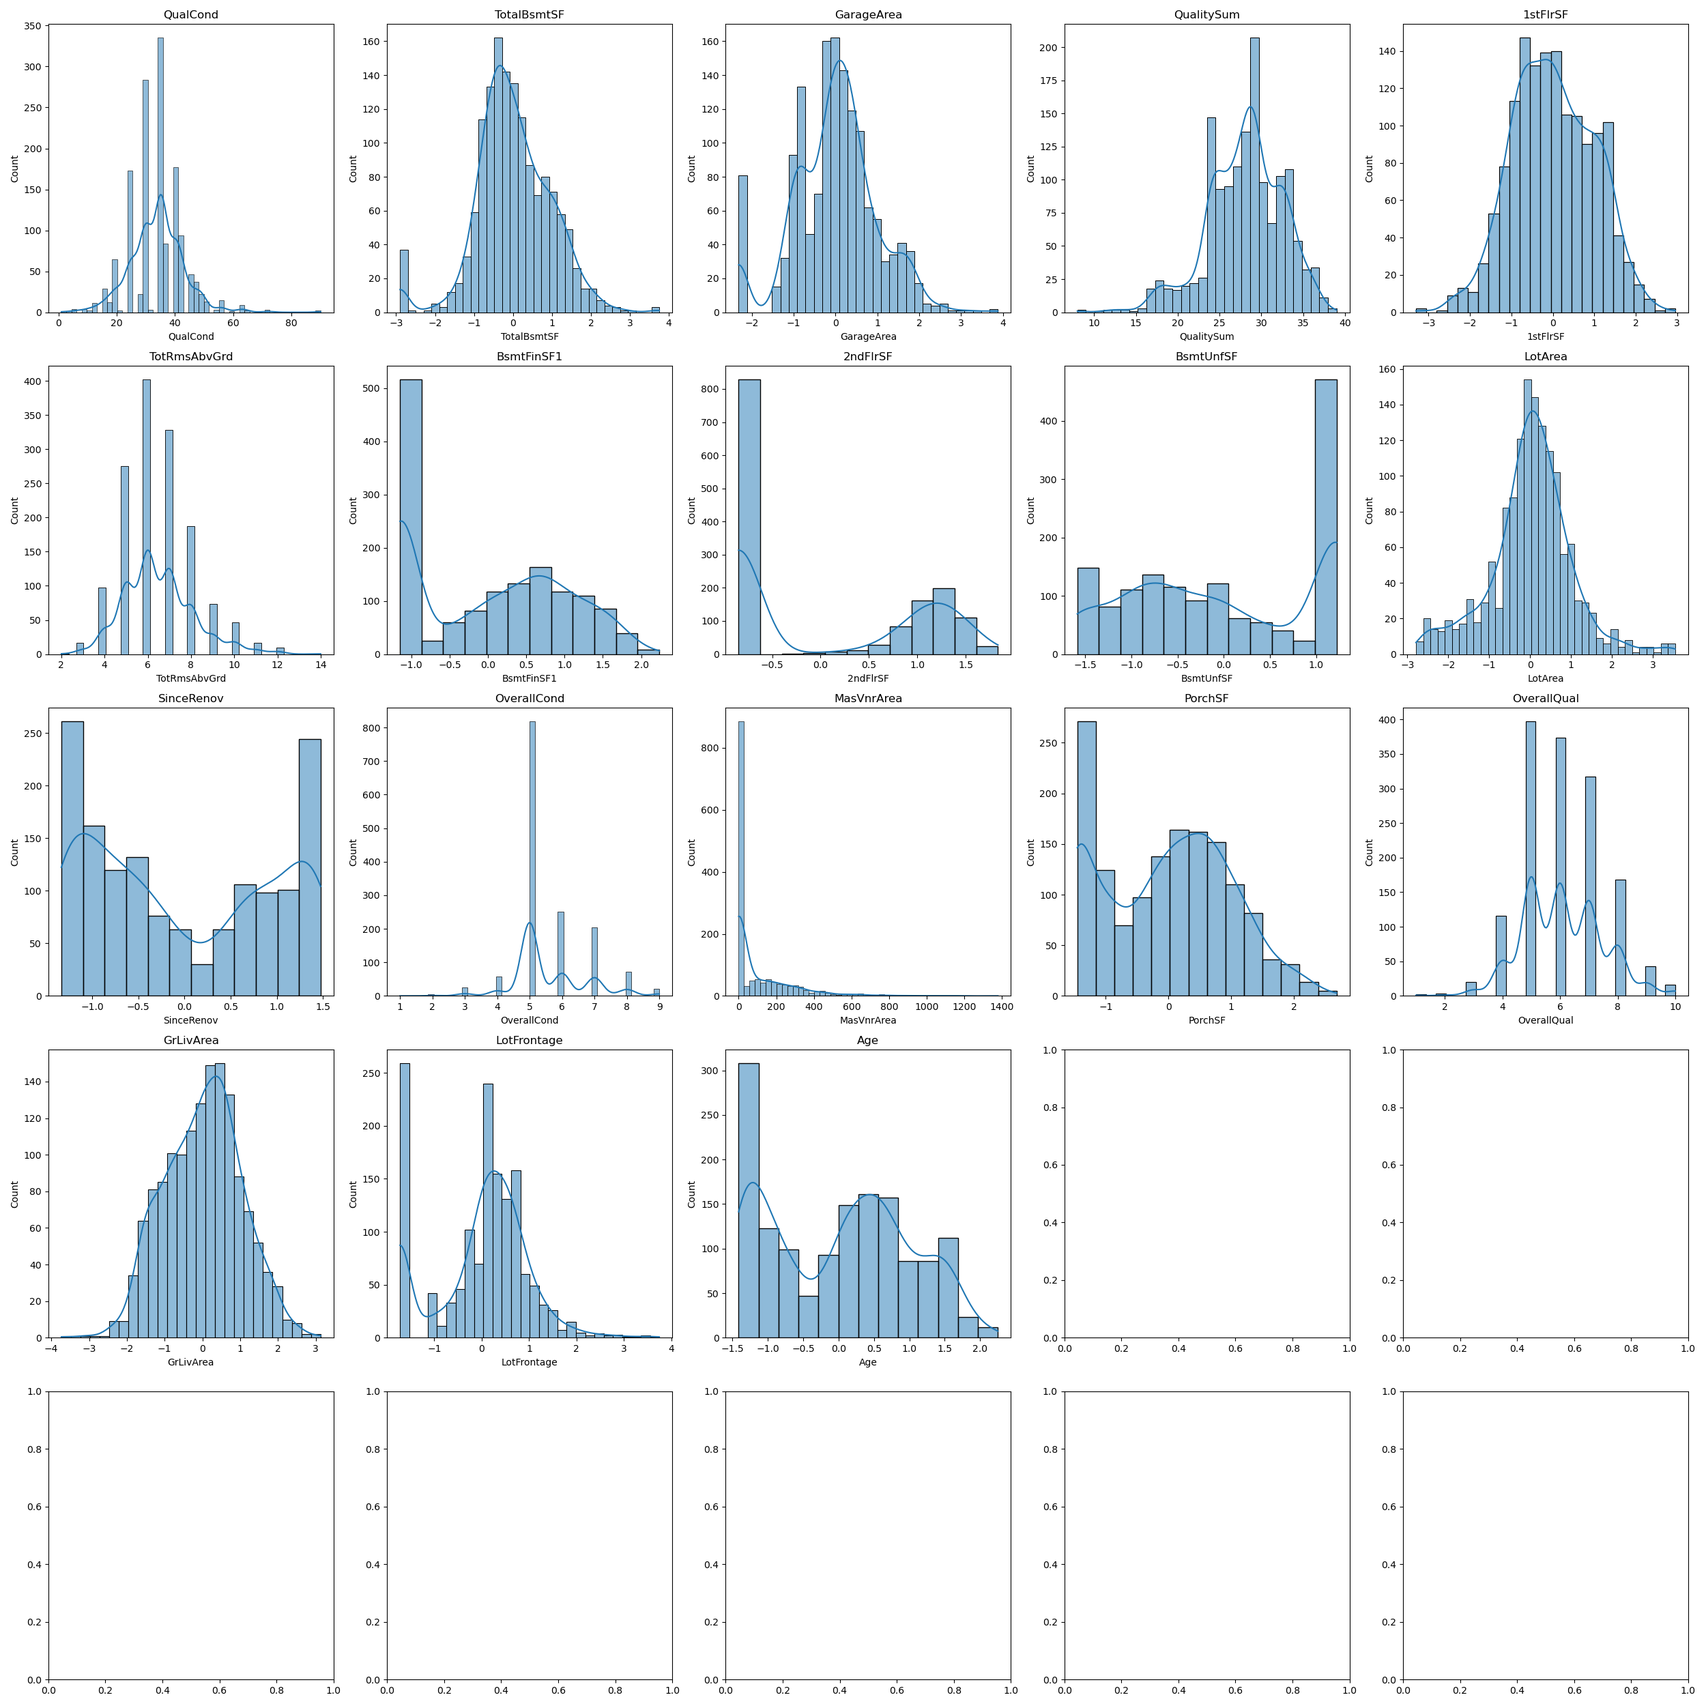
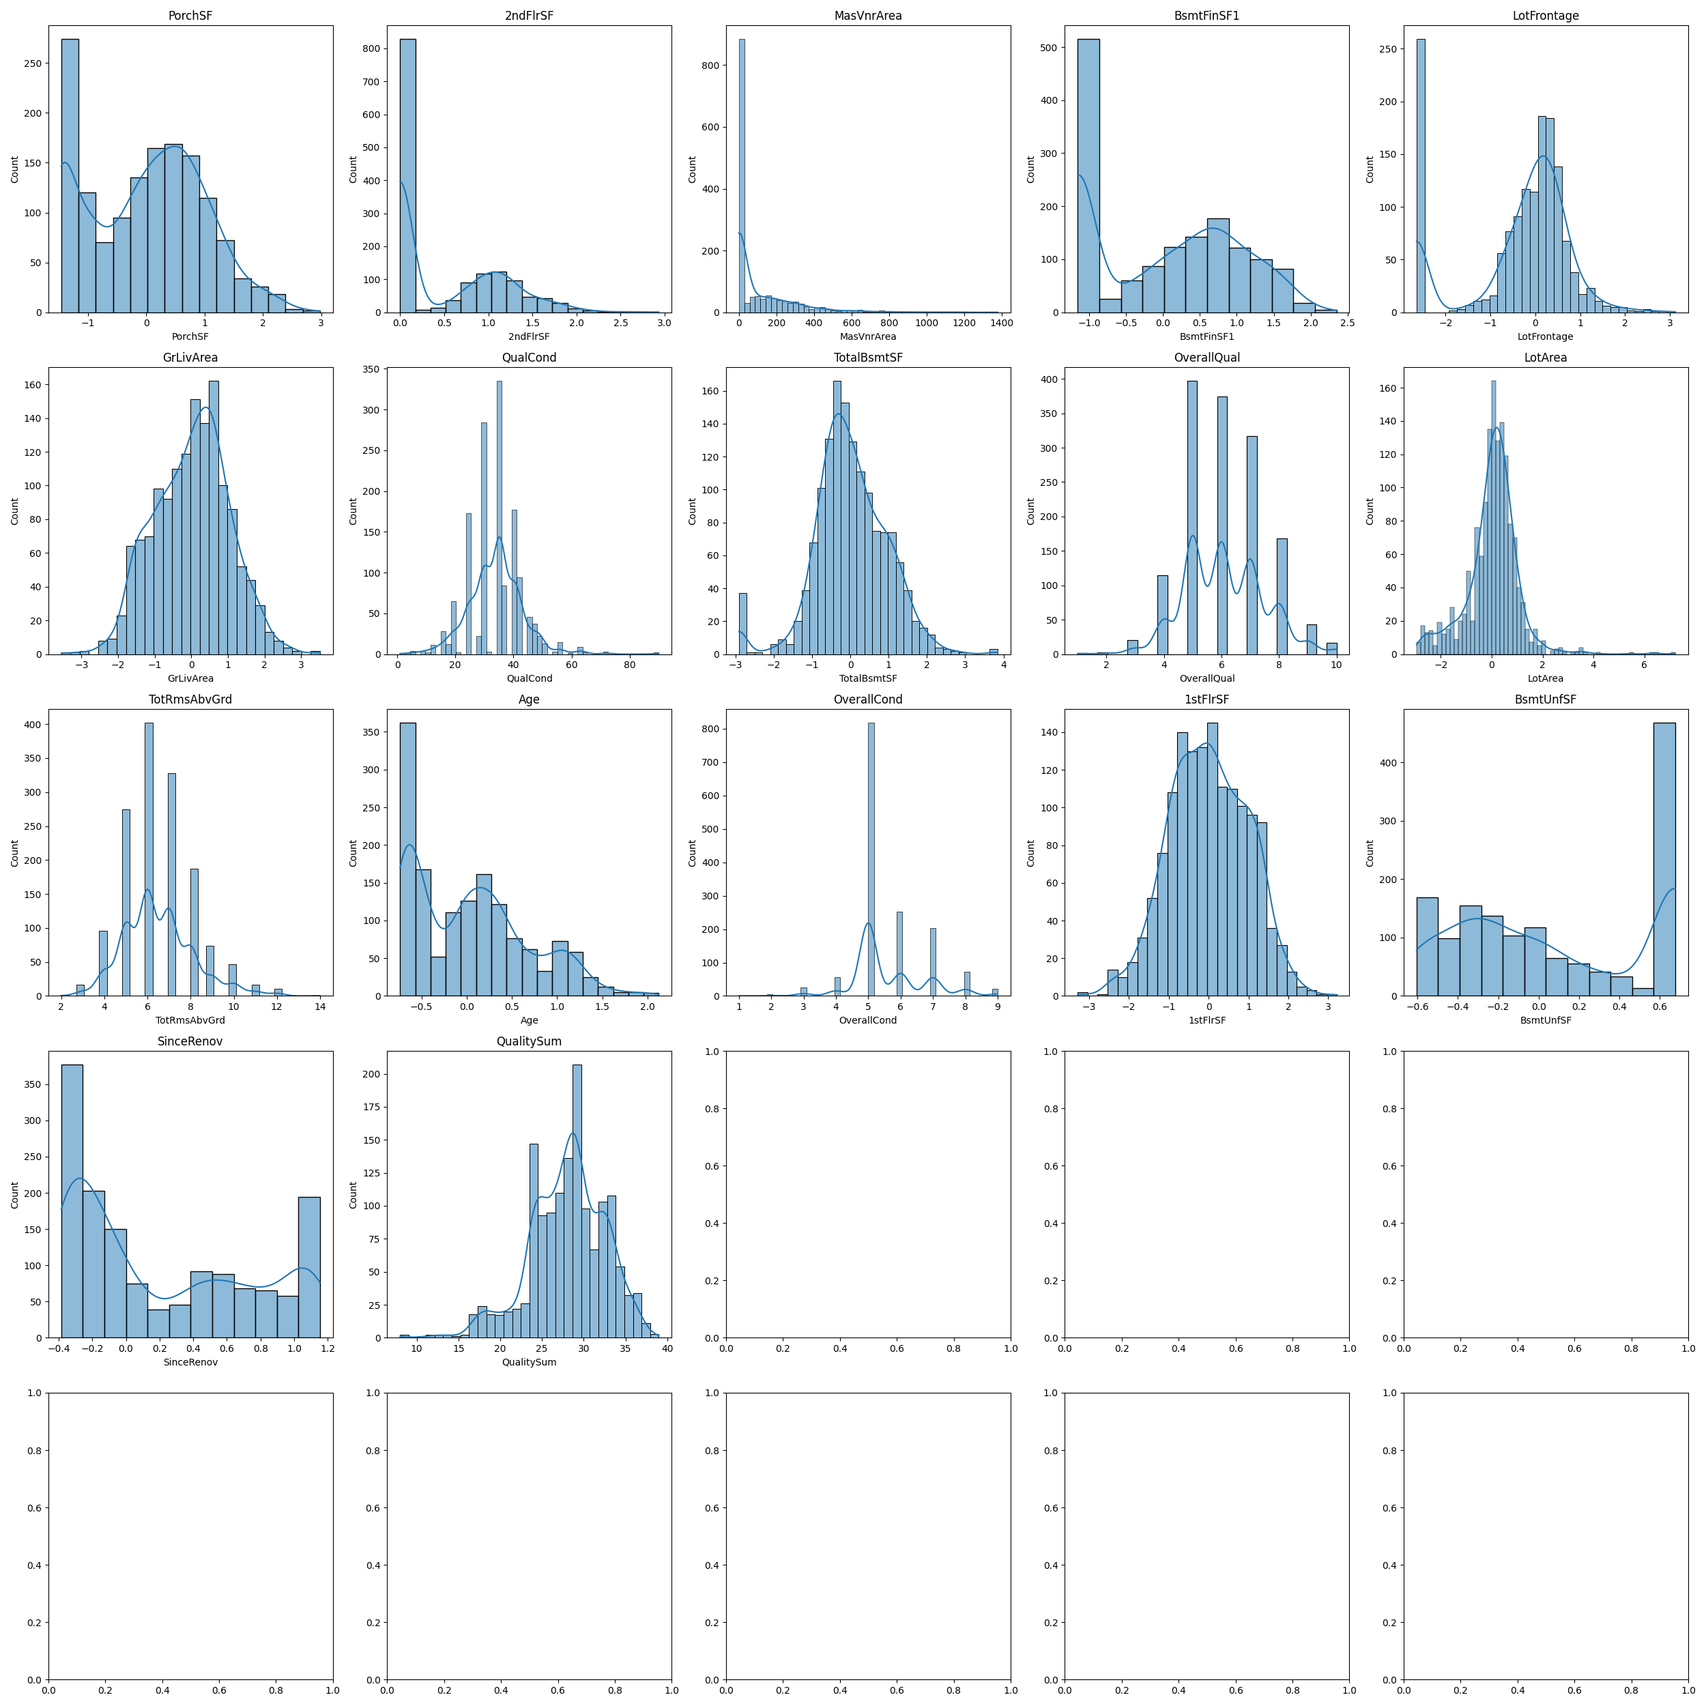
SVR

diff --git a/train.py b/train.py
@@ -7,13 +7,14 @@ import seaborn as sn
 import shap
 from sklearn import preprocessing
 from sklearn.preprocessing import PowerTransformer
-from sklearn.preprocessing import MinMaxScaler
+from sklearn.preprocessing import RobustScaler
 from sklearn import metrics
 from sklearn.model_selection import train_test_split
 from sklearn.model_selection import cross_val_score
 from sklearn.linear_model import LinearRegression
 from sklearn.linear_model import Lasso
 from sklearn.linear_model import Ridge
+from sklearn.svm  import SVR
 from sklearn.ensemble import RandomForestRegressor
 from sklearn.model_selection import KFold
 
@@ -238,7 +239,7 @@ while k < len(combine_data):
 		combine_data.at[k, 'Age'] = 0
 	combine_data.at[k, 'PorchSF'] = combine_data.at[k, 'OpenPorchSF'] + combine_data.at[k, 'EnclosedPorch'] + combine_data.at[k, '3SsnPorch'] + combine_data.at[k, 'ScreenPorch'] + combine_data.at[k, 'WoodDeckSF']
 	combine_data.at[k, 'Bath_count'] = combine_data.at[k, 'BsmtFullBath'] + combine_data.at[k, 'FullBath'] + 0.5*combine_data.at[k, 'BsmtHalfBath'] + 0.5*combine_data.at[k, 'HalfBath']
-	##combine_data.at[k, 'LotFrontage'] = combine_data.at[k, 'LotFrontage'] / np.sqrt(combine_data.at[k,'LotArea'])
+	combine_data.at[k, 'LotFrontage'] = combine_data.at[k, 'LotFrontage'] / np.sqrt(combine_data.at[k,'LotArea'])
 	if pd.isna(combine_data.at[k, 'MSZoning']): #####Fill missing values based on 
 		combine_data.at[k, 'MSZoning'] = 'C (all)'
 		if combine_data.at[k,'YearBuilt'] > 1938:
@@ -315,11 +316,12 @@ print('\nSkewness of continuous features:')
 [print(key,':',value) for key, value in cont_skew.items()]
 
 #####SCALE AND TRANSFORM CONTINUOUS DATA TO REDUCE SKEWNESS
-mm_scaler = preprocessing.MinMaxScaler()
+robust_scaler = preprocessing.RobustScaler()
 pt = PowerTransformer()
 for col in [element for element in transform_list if element in combine_data]:
-	combine_data[col] = mm_scaler.fit_transform(combine_data.loc[:,col].values.reshape(-1, 1))
-	combine_data[col] = pt.fit_transform(combine_data.loc[:,col].values.reshape(-1, 1))
+	combine_data[col] = robust_scaler.fit_transform(combine_data.loc[:,col].values.reshape(-1, 1))
+	if cont_skew[col] > 1.0:
+		combine_data[col] = pt.fit_transform(combine_data.loc[:,col].values.reshape(-1, 1))
 
 f, ax = plt.subplots(5, 6, figsize=(25, 20))
 l=1
@@ -394,14 +396,15 @@ plt.savefig('graphs/scatter_price_cont_final.png')
 plt.close
 
 #####DROP COLUMNS WITH NO CORRELATION TO PRICE, BASED ON PREVIOUS SCATTER PLOT
-drop_scatter_list = ['BsmtFinSF2', 'LowQualFinSF']
+drop_scatter_list = ['GarageArea', 'BsmtFinSF2', 'LowQualFinSF']
 for i in data:
-	i.drop(drop_scatter_list, axis=1, inplace=True)
+	for col in [element for element in drop_scatter_list if element in train]:
+		i.drop(col, axis=1, inplace=True)
 
 #####REMOVE SOME MAX OUTLIERS - JUDGEMENT BASED ON SCATTER PLOT
 outlier_col = ['LotFrontage', 'MasVnrArea', 'GrLivArea', 'TotalBsmtSF','GarageArea', 'QualitySum']
 outlier_row = []
-for col in outlier_col:
+for col in [element for element in outlier_col if element in train]:
 	if train[col].idxmax() in outlier_row:
 		pass
 	else:
@@ -752,6 +755,44 @@ lgb_reg_opt.fit(x_train,y_train)
 Y_pred = lgb_reg_opt.predict(x_test)
 print('Accuracy Optimized LightGBM (RMSLE):',np.sqrt(metrics.mean_squared_log_error(np.expm1(y_test), np.expm1(Y_pred))))
 
+#####SV REGRESSOION
+svr = SVR()
+svr.fit(x_train,y_train)
+Y_pred = svr.predict(x_test)
+print('Accuracy SVR (RMSLE):',np.sqrt(metrics.mean_squared_log_error(np.expm1(y_test), np.expm1(Y_pred))))
+
+####OPTIMIZED SV REGRESSOION
+estimator = SVR(
+)
+
+search_space = {
+    'kernel': (['linear', 'rbf','poly']),
+    'C': (1e-5, 20),
+    'gamma': (1e-5, 0.5),
+    'epsilon': (0.01, 0.5),
+}
+
+cv = KFold(n_splits=3, shuffle=True)
+n_iterations = 50
+bayes_cv_tuner = BayesSearchCV(
+    estimator=estimator,
+    search_spaces=search_space,
+    scoring='neg_root_mean_squared_error',
+    cv=cv,
+    n_jobs=-1,
+    n_iter=n_iterations,
+    verbose=0,
+    refit=True,
+)
+
+svr_opt = bayes_cv_tuner.fit(x_train, y_train, callback=print_status)
+print('\nOptimized LightGBM Parameters:')
+print(svr_opt.best_params_)
+Y_pred = svr_opt.predict(x_test)
+print('Accuracy Optimized LightGBM (RMSLE):',np.sqrt(metrics.mean_squared_log_error(np.expm1(y_test), np.expm1(Y_pred))))
+## Best parameters: ('learning_rate', 0.04073689840245192), ('max_depth', 2), ('min_data_in_leaf', 2), ('n_estimators', 3423), ('num_leaves', 2)
+
+
 ####OPTIMIZE HYPERPARAMETERS FOR TRAINING ON WHOLE TRAIN SET BEFORE CLASSIFIER STACKING
 print('\n***Compared different regressors for prediction. Removing Random Forest from models. Create a stacked regressor.***')
 
@@ -819,59 +860,60 @@ Y_pred=ridge_opt.predict(x_test)
 print('Accuracy Optimized Ridge Regression on all Train Data (RMSLE):',np.sqrt(metrics.mean_squared_log_error(np.expm1(y_test), np.expm1(Y_pred))))
 
 ####TRAIN XGB REGRESSOR WITH ALL TRAIN DATA
-estimator = xgb.XGBRegressor(
-    n_jobs=-1,
-    verbosity=0,
-    random_state=666,
-)
-search_space = {
-    'learning_rate': (Real(0.01, 1, 'log-uniform')),
-    'eta': (Real(0.01, 0.3, 'log-uniform')),
-    'gamma': (0.0, 5.0),
-    'min_child_weight': (0, 10),
-    'max_depth': (3, 12),
-    'colsample_bytree': (Real(0.01, 1.0, 'log-uniform')),
-    'min_child_weight': (0, 10),
-    'reg_lambda': (Real(0.00001,10,'log-uniform')),
-    'reg_alpha': (Real(0.00001,10,'log-uniform')),
-    'subsample': (0.5, 1.0),
-    'n_estimators': (5, 5000),
-}
-cv = KFold(n_splits=5, shuffle=True)
-n_iterations = 50
-bayes_cv_tuner = BayesSearchCV(
-    estimator=estimator,
-    search_spaces=search_space,
-    scoring='neg_root_mean_squared_error',
-    cv=cv,
-    n_jobs=-1,
-    n_iter=n_iterations,
-    verbose=0,
-    refit=True,
-)
-xg_reg_all_data = bayes_cv_tuner.fit(X_train, Y_train, callback=print_status)
-print('\nOptimized XGBoost Parameters for All Data:')
-print(xg_reg_all_data.best_params_)
-Y_pred = xg_reg_all_data.predict(x_test)
-print('Accuracy Optimized XGBoost Trained on all Data (RMSLE):',np.sqrt(metrics.mean_squared_log_error(np.expm1(y_test), np.expm1(Y_pred))))
-##Model #40
-##Best so far: -0.12349
-##Best parameters so far: OrderedDict([('colsample_bytree', 0.01), ('eta', 0.01), ('gamma', 0.0), ('learning_rate', 0.01), ('max_depth', 3), ('min_child_weight', 0), ('n_estimators', 5000), ('reg_alpha', 1e-05), ('reg_lambda', 10.0), ('subsample', 1.0)])
-xg_reg_all_data = xgb.XGBRegressor(learning_rate = 0.03617403978211306, colsample_bytree = 0.32947095291159034, eta = 0.26529029266708737, gamma= 0.035245022332880245, max_depth = 7, min_child_weight = 4, n_estimators = 1165, reg_alpha = 0.006119704389393712, reg_lambda = 0.0002700855083204611, subsample = 0.776151259146962)
+# estimator = xgb.XGBRegressor(
+#     n_jobs=-1,
+#     verbosity=0,
+#     random_state=666,
+# )
+# search_space = {
+#     'learning_rate': (Real(0.01, 1, 'log-uniform')),
+#     'eta': (Real(0.01, 0.4, 'log-uniform')),
+#     'gamma': (0.0, 5.0),
+#     'min_child_weight': (0, 10),
+#     'max_depth': (2, 12),
+#     'colsample_bytree': (Real(0.01, 1.0, 'log-uniform')),
+#     'min_child_weight': (0, 10),
+#     'reg_lambda': (Real(0.00001,10,'log-uniform')),
+#     'reg_alpha': (Real(0.00001,10,'log-uniform')),
+#     'subsample': (0.5, 1.0),
+#     'n_estimators': (200, 8000),
+# }
+# cv = KFold(n_splits=10, shuffle=True)
+# n_iterations = 50
+# bayes_cv_tuner = BayesSearchCV(
+#     estimator=estimator,
+#     search_spaces=search_space,
+#     scoring='neg_root_mean_squared_error',
+#     cv=cv,
+#     n_jobs=-1,
+#     n_iter=n_iterations,
+#     verbose=0,
+#     refit=True,
+# )
+# xg_reg_all_data = bayes_cv_tuner.fit(X_train, Y_train, callback=print_status)
+# print('\nOptimized XGBoost Parameters for All Data:')
+# print(xg_reg_all_data.best_params_)
+# Y_pred = xg_reg_all_data.predict(x_test)
+# print('Accuracy Optimized XGBoost Trained on all Data (RMSLE):',np.sqrt(metrics.mean_squared_log_error(np.expm1(y_test), np.expm1(Y_pred))))
+##Model #50
+##Best so far: -0.11231
+##Best parameters so far: OrderedDict([('colsample_bytree', 0.5943643964392312), ('eta', 0.21203202267670943), ('gamma', 0.0), ('learning_rate', 0.022371092655512084), ('max_depth', 2), ('min_child_weight', 4), ('n_estimators', 2702), ('reg_alpha', 4.36857086685192e-05), ('reg_lambda', 1.4131059522699787), ('subsample', 0.7592143082972063)])
+xg_reg_all_data = xgb.XGBRegressor(random_state = 666, learning_rate = 0.022371092655512084, colsample_bytree = 0.5943643964392312, eta = 0.21203202267670943, gamma= 0.0, max_depth = 2, min_child_weight = 4, n_estimators = 2702, reg_alpha = 4.36857086685192e-05, reg_lambda = 1.4131059522699787, subsample = 0.7592143082972063)
 xg_reg_all_data.fit(X_train,Y_train)
 Y_pred = xg_reg_all_data.predict(x_test)
 print('Accuracy Optimized XGBoost on all Train Data (RMSLE):',np.sqrt(metrics.mean_squared_log_error(np.expm1(y_test), np.expm1(Y_pred))))
 
 # estimator = cbr.CatBoostRegressor(
 #     silent=True,
+#     random_state = 666,
 # )
 # search_space = {
-#     'learning_rate': (Real(0.01, 0.3, 'log-uniform')),
-#     'max_depth': (3, 12),
+#     'learning_rate': (Real(0.01, 0.5, 'log-uniform')),
+#     'max_depth': (2, 12),
 #     'l2_leaf_reg': (0.2, 30),
-#     'n_estimators': (20, 5000),
+#     'n_estimators': (20, 8000),
 # }
-# cv = KFold(n_splits=3, shuffle=True)
+# cv = KFold(n_splits=10, shuffle=True)
 # n_iterations = 50
 # bayes_cv_tuner = BayesSearchCV(
 #     estimator=estimator,
@@ -888,8 +930,10 @@ print('Accuracy Optimized XGBoost on all Train Data (RMSLE):',np.sqrt(metrics.me
 # print(cb_reg_opt.best_params_)
 # Y_pred = cb_reg_opt.predict(x_test)
 # print('Accuracy Optimized CatBoost on all Train Data (RMSLE):',np.sqrt(metrics.mean_squared_log_error(np.expm1(y_test), np.expm1(Y_pred))))
-####STILL TO DETERMINE!!!
-cb_reg_opt = cbr.CatBoostRegressor(n_estimators = 1232, l2_leaf_reg = 0.2, learning_rate = 0.06015677013229454, max_depth = 4)
+##Model #21
+##Best so far: -0.11244
+##Best parameters so far: OrderedDict([('l2_leaf_reg', 4.819227931494778), ('learning_rate', 0.017224166221196126), ('max_depth', 5), ('n_estimators', 5676)])
+cb_reg_opt = cbr.CatBoostRegressor(random_state = 666, n_estimators = 5676, l2_leaf_reg = 4.819227931494778, learning_rate = 0.017224166221196126, max_depth = 5)
 cb_reg_opt.fit(X_train,Y_train,silent=True)
 Y_pred = cb_reg_opt.predict(x_test)
 print('Accuracy Optimized CatBoost on all Train Data (RMSLE):',np.sqrt(metrics.mean_squared_log_error(np.expm1(y_test), np.expm1(Y_pred))))
@@ -898,15 +942,16 @@ print('Accuracy Optimized CatBoost on all Train Data (RMSLE):',np.sqrt(metrics.m
 #     n_jobs=-1,
 #     objective = 'regression',
 #     verbosity=-1,
+#     random_state = 666,
 # )
 # search_space = {
-#     'learning_rate': (Real(0.001, 0.3, 'log-uniform')),
+#     'learning_rate': (Real(0.001, 0.5, 'log-uniform')),
 #     'max_depth': (2, 12),
-#     'num_leaves': (2, 200),
-#     'min_data_in_leaf': (2, 200),
-#     'n_estimators': (20, 5000),
+#     'num_leaves': (2, 256),
+#     'min_data_in_leaf': (2, 256),
+#     'n_estimators': (20, 8000),
 # }
-# cv = KFold(n_splits=3, shuffle=True)
+# cv = KFold(n_splits=20, shuffle=True)
 # n_iterations = 50
 # bayes_cv_tuner = BayesSearchCV(
 #     estimator=estimator,
@@ -923,10 +968,10 @@ print('Accuracy Optimized CatBoost on all Train Data (RMSLE):',np.sqrt(metrics.m
 # print(lgb_reg_opt.best_params_)
 # Y_pred = lgb_reg_opt.predict(x_test)
 # print('Accuracy Optimized LightGBM on all Train Data (RMSLE):',np.sqrt(metrics.mean_squared_log_error(np.expm1(y_test), np.expm1(Y_pred))))
-## Model #50
-## Best so far: -0.11628
-## Best parameters so far: OrderedDict([('learning_rate', 0.02113703073420213), ('max_depth', 2), ('min_data_in_leaf', 2), ('n_estimators', 3817), ('num_leaves', 2)])
-lgb_reg_opt = lgb.LGBMRegressor(n_estimators = 3817, objective = 'regression', learning_rate = 0.02113703073420213, max_depth = 2, min_data_in_leaf = 2, num_leaves = 2)
+##Model #50
+##Best so far: -0.11474
+##Best parameters so far: OrderedDict([('learning_rate', 0.11517897606077306), ('max_depth', 2), ('min_data_in_leaf', 2), ('n_estimators', 565), ('num_leaves', 222)])
+lgb_reg_opt = lgb.LGBMRegressor(n_estimators = 565, objective = 'regression', learning_rate = 0.11517897606077306, max_depth = 2, min_data_in_leaf = 2, num_leaves = 222, random_state = 666)
 lgb_reg_opt.fit(X_train,Y_train)
 Y_pred = lgb_reg_opt.predict(x_test)
 print('Accuracy Optimized LightGBM on all Train Data (RMSLE):',np.sqrt(metrics.mean_squared_log_error(np.expm1(y_test), np.expm1(Y_pred))))
@@ -946,28 +991,28 @@ print('Accuracy Optimized LightGBM on all Train Data (RMSLE):',np.sqrt(metrics.m
 # Y_pred = regressor_stacked.predict(x_test)
 # print('Accuracy Stacked Regressor (RMSLE):',np.sqrt(metrics.mean_squared_log_error(np.expm1(y_test), np.expm1(Y_pred))))
 
-# lr = LinearRegression()
-# lasso = Lasso(alpha=0.0007918093902480028, max_iter = 2988, random_state = 666)
-# ridge = Ridge(alpha=1, max_iter=200, solver='svd', random_state = 666)
-# xgboost = xgb.XGBRegressor(learning_rate = 0.03617403978211306, colsample_bytree = 0.32947095291159034, eta = 0.26529029266708737, gamma= 0.035245022332880245, max_depth = 7, min_child_weight = 4, n_estimators = 1165, reg_alpha = 0.006119704389393712, reg_lambda = 0.0002700855083204611, subsample = 0.776151259146962)
-# catboost = cbr.CatBoostRegressor(n_estimators = 1232, l2_leaf_reg = 0.2, learning_rate = 0.06015677013229454, max_depth = 4, silent=True)
-# gbm = lgb.LGBMRegressor(verbosity=-1, n_estimators = 3817, objective = 'regression', learning_rate = 0.02113703073420213, max_depth = 2, min_data_in_leaf = 2, num_leaves = 2, min_child_samples = 2)
+lr = LinearRegression()
+lasso = Lasso(alpha=0.0007918093902480028, max_iter = 2988, random_state = 666)
+ridge = Ridge(alpha=1, max_iter=200, solver='svd', random_state = 666)
+xgboost = xgb.XGBRegressor(random_state = 666, learning_rate = 0.022371092655512084, colsample_bytree = 0.5943643964392312, eta = 0.21203202267670943, gamma= 0.0, max_depth = 2, min_child_weight = 4, n_estimators = 2702, reg_alpha = 4.36857086685192e-05, reg_lambda = 1.4131059522699787, subsample = 0.7592143082972063)
+catboost = cbr.CatBoostRegressor(random_state = 666, n_estimators = 5676, l2_leaf_reg = 4.819227931494778, learning_rate = 0.017224166221196126, max_depth = 5, silent=True)
+gbm = lgb.LGBMRegressor(n_estimators = 565, objective = 'regression', learning_rate = 0.11517897606077306, max_depth = 2, min_data_in_leaf = 2, num_leaves = 222, random_state = 666)
 
-# stack = StackingCVRegressor(regressors=(lr, lasso, ridge, xgboost, catboost, gbm),
-# 							meta_regressor=lasso,
-# 							random_state=666)
+stack = StackingCVRegressor(regressors=(lr, lasso, ridge, xgboost, catboost, gbm),
+							meta_regressor=lasso,
+							random_state=666)
 
 
-# for clf, label in zip([lr, lasso, ridge, xgboost, catboost, gbm, stack], ['LR', 'Lasso', 
-#  												'Ridge', 'XGBoost', 'CatBoost', 'LightGBM', 
-# 												'StackingCVRegressor']):
-# 	scores = cross_val_score(clf, X_train, Y_train, cv=50, scoring='neg_root_mean_squared_error')
-# 	print("Neg. RMSE Score: %0.2f (+/- %0.2f) [%s]" % (
-# 		scores.mean(), scores.std(), label))
+for clf, label in zip([lr, lasso, ridge, xgboost, catboost, gbm, stack], ['LR', 'Lasso', 
+ 												'Ridge', 'XGBoost', 'CatBoost', 'LightGBM', 
+												'StackingCVRegressor']):
+	scores = cross_val_score(clf, X_train, Y_train, cv=100, scoring='neg_root_mean_squared_error')
+	print("Neg. RMSE Score: %0.3f (+/- %0.3f) [%s]" % (
+		scores.mean(), scores.std(), label))
 
-# stack.fit(X_train, Y_train)
-# Y_pred = stack.predict(x_test)
-# print('Accuracy Stacked Regressor (RMSLE):',np.sqrt(metrics.mean_squared_log_error(np.expm1(y_test), np.expm1(Y_pred))))
+stack.fit(X_train, Y_train)
+Y_pred = stack.predict(x_test)
+print('Accuracy Stacked Regressor (RMSLE):',np.sqrt(metrics.mean_squared_log_error(np.expm1(y_test), np.expm1(Y_pred))))
 
 #####PREDICT TEST DATA AND EXPORT FOR UPLOAD
 predict_export = pd.DataFrame()
@@ -984,9 +1029,9 @@ prediction_xgboost = np.expm1(prediction_xgboost)
 predict_export['SalePrice'] = prediction_xgboost
 predict_export.to_csv('submission_xgb_all.csv',index=False)
 
-# predict_export = pd.DataFrame()
-# predict_export['Id'] = test['Id']
-# prediction_stacked = stack.predict(test.drop('Id', axis=1))
-# prediction_stacked = np.expm1(prediction_stacked)
-# predict_export['SalePrice'] = prediction_stacked
-# predict_export.to_csv('submission_stacked_all.csv',index=False)
+predict_export = pd.DataFrame()
+predict_export['Id'] = test['Id']
+prediction_stacked = stack.predict(test.drop('Id', axis=1))
+prediction_stacked = np.expm1(prediction_stacked)
+predict_export['SalePrice'] = prediction_stacked
+predict_export.to_csv('submission_stacked_all.csv',index=False)
